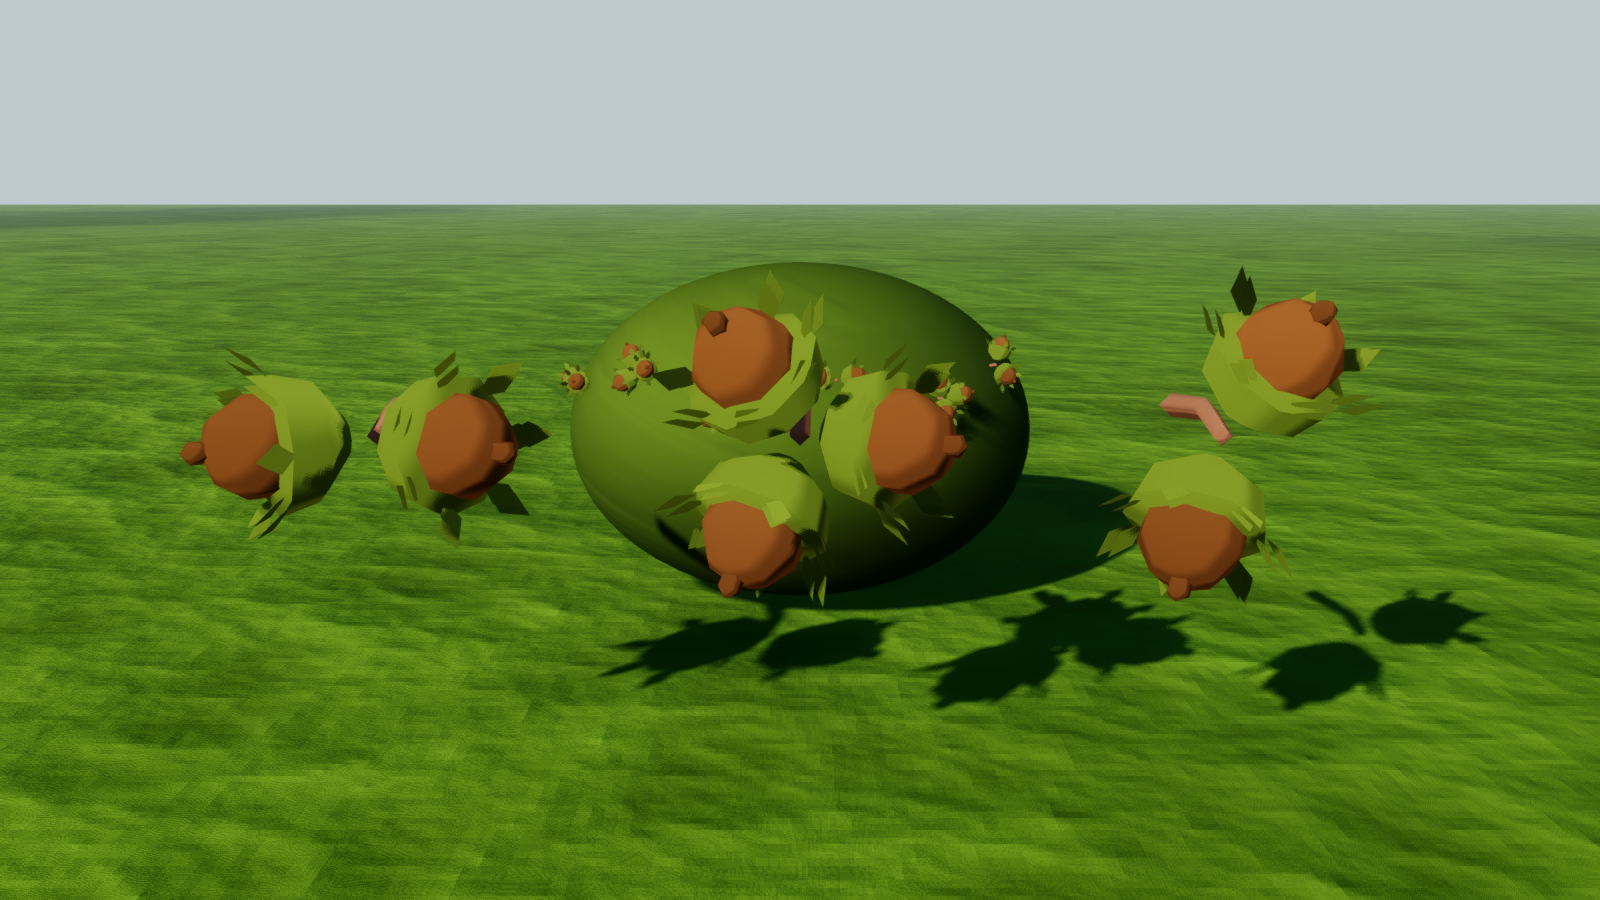
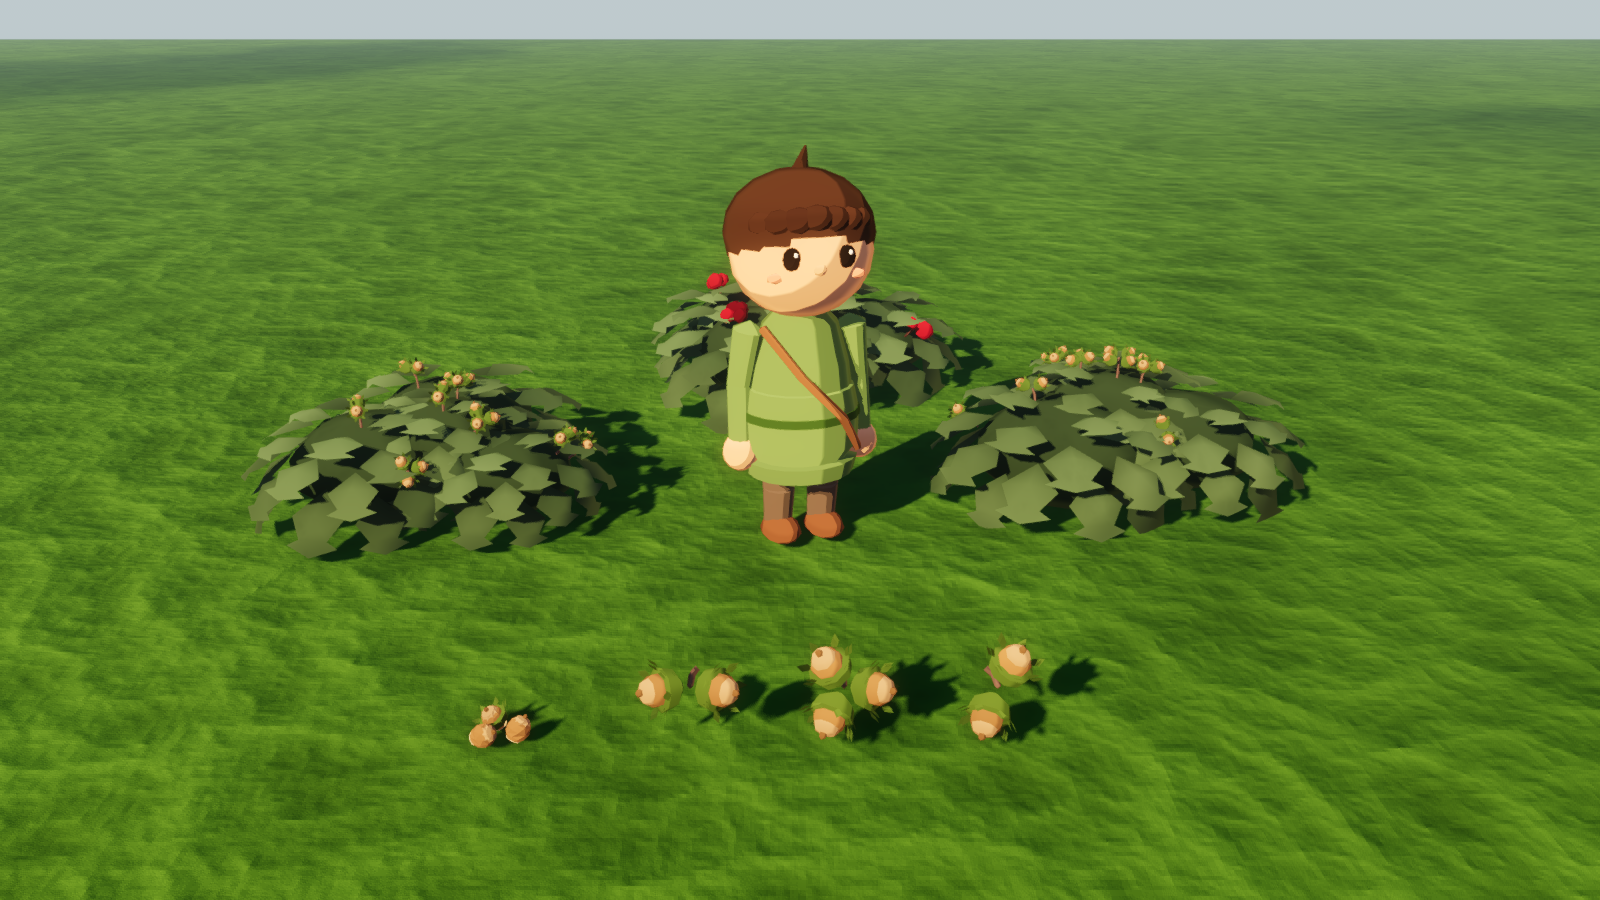
model-21: hazelnut item and bush clusters on real hazel bushes (PM review)
Claude-Session: https://claude.ai/code/session_01JKX3FNjkrEkAqoTaFJiXAm

diff --git a/client/scripts/survival/BerryBush.cs b/client/scripts/survival/BerryBush.cs
@@ -8,11 +8,9 @@ namespace LifeGame;
 public partial class BerryBush : Node3D
 {
     public static readonly Color BerryColor = new(0.55f, 0.08f, 0.16f);
-    // A hazel bush (survival-30) carries pale brown nuts instead; Modeling's cluster replaces these spheres.
-    public static readonly Color NutColor = new(0.68f, 0.48f, 0.24f);
     static readonly Color BushLeaf = new(0.20f, 0.33f, 0.14f);
 
-    static Mesh? lobeMesh, berryMesh, berryDarkMesh, nutMesh, nutDarkMesh, stemMesh;
+    static Mesh? lobeMesh, berryMesh, berryDarkMesh, stemMesh;
     readonly Node3D berries = new();
 
     // A lobe is a squashed sphere: center and radii in the bush's own space.
@@ -31,11 +29,8 @@ public partial class BerryBush : Node3D
         lobeMesh ??= PaintedBushes.Clump(PaintedBushes.Tint(BushLeaf));
         berryMesh ??= PaintedMesh(Look.Faceted(new SphereMesh { Radius = 0.04f, Height = 0.08f, RadialSegments = 6, Rings = 3 }, BerryColor));
         berryDarkMesh ??= PaintedMesh(Look.Faceted(new SphereMesh { Radius = 0.04f, Height = 0.08f, RadialSegments = 6, Rings = 3 }, BerryColor.Darkened(0.35f)));
-        nutMesh ??= PaintedMesh(Look.Faceted(new SphereMesh { Radius = 0.05f, Height = 0.1f, RadialSegments = 6, Rings = 3 }, NutColor));
-        nutDarkMesh ??= PaintedMesh(Look.Faceted(new SphereMesh { Radius = 0.05f, Height = 0.1f, RadialSegments = 6, Rings = 3 }, NutColor.Darkened(0.3f)));
+        // A hazel bush (survival-30) carries hazelnuts in their husks instead of berries.
         bool hazel = Needs.IsHazelBush(id);
-        var fruit = hazel ? nutMesh : berryMesh;
-        var fruitDark = hazel ? nutDarkMesh : berryDarkMesh;
         stemMesh ??= PaintedMesh(Look.Faceted(new CylinderMesh { TopRadius = 0.006f, BottomRadius = 0.009f, Height = 0.12f, RadialSegments = 4 }, Look.Bark));
 
         int seed = (int)(id % 100_000);
@@ -56,14 +51,26 @@ public partial class BerryBush : Node3D
 
         // Berries hang in small clusters on short stems, tucked into the leaves of
         // the outer, upper surface so they read as part of the bush.
-        for (int c = 0; c < 7; c++)
+        for (int c = 0; c < (hazel ? 8 : 7); c++)
         {
             if (FindSurfaceSpot(lobes, seed, c) is not var (spot, normal)) continue;
             var cluster = new Node3D { Position = spot };
             cluster.Basis = Basis.LookingAt(normal, Mathf.Abs(normal.Y) > 0.95f ? Vector3.Forward : Vector3.Up);
+            if (hazel)
+            {
+                // Modeling's hazelnuts in their husks (model-21), stem and all, turned a little per cluster.
+                cluster.AddChild(new MeshInstance3D
+                {
+                    Mesh = PropMeshes.HazelCluster(seed + c),
+                    MaterialOverride = PropMeshes.HazelMaterial,
+                    Rotation = new Vector3(0, 0, Terrain.Hash01(seed, c, 48) * Mathf.Tau),
+                });
+                berries.AddChild(cluster);
+                continue;
+            }
             // The stem runs back into the foliage.
             cluster.AddChild(new MeshInstance3D { Mesh = stemMesh, Position = new Vector3(0, 0, 0.03f), Rotation = new Vector3(Mathf.Pi / 2f, 0, 0) });
-            int count = hazel ? 2 + (int)(Terrain.Hash01(seed, c, 44) * 2f) : 2 + (int)(Terrain.Hash01(seed, c, 44) * 3f);
+            int count = 2 + (int)(Terrain.Hash01(seed, c, 44) * 3f);
             for (int b = 0; b < count; b++)
             {
                 float a = b * Mathf.Tau / count + Terrain.Hash01(seed, c * 7 + b, 45);
@@ -71,7 +78,7 @@ public partial class BerryBush : Node3D
                 float scale = 0.8f + Terrain.Hash01(seed, c * 7 + b, 46) * 0.45f;
                 cluster.AddChild(new MeshInstance3D
                 {
-                    Mesh = Terrain.Hash01(seed, c * 7 + b, 47) < 0.3f ? fruitDark : fruit,
+                    Mesh = Terrain.Hash01(seed, c * 7 + b, 47) < 0.3f ? berryDarkMesh : berryMesh,
                     // Local -Z points out of the bush; berries sit just proud of the leaves.
                     Position = new Vector3(Mathf.Cos(a) * r, Mathf.Sin(a) * r - 0.01f, -0.015f),
                     Scale = Vector3.One * scale,

diff --git a/client/scripts/models/PropMeshes.cs b/client/scripts/models/PropMeshes.cs
@@ -158,9 +158,10 @@ public static class PropMeshes
     }
 
     // Hazelnuts on the bush (model-21, for Survival's autumn hazels, D-323): two or three
-    // nuts in their frilled green-gold husks on a short stem, in the berry clusters' frame
+    // tan nuts in their frilled green husks on a short stem, in the berry clusters' frame
     // (BerryBush): local -Z points out of the bush, the stem runs back into it along +Z.
-    // Colours are in the vertices; draw it with HazelMaterial.
+    // Built 1.5x life size (about 12 cm across) so it reads from 5 to 10 m, like the
+    // berries. Colours are in the vertices; draw it with HazelMaterial.
     public static Mesh HazelCluster(int variant) => Variant("hazelcluster", variant, HazelClusterVariants, BuildHazelCluster);
     public const int HazelClusterVariants = 3;
     public static Material HazelMaterial => hazelMaterial ??= Painted.Of(Look.Solid(Colors.White));
@@ -169,7 +170,8 @@ public static class PropMeshes
     static ArrayMesh BuildHazelCluster(int v)
     {
         var k = new MeshKit(false) { Skinned = false };
-        var shell = new Color(0.36f, 0.26f, 0.16f);
+        const float life = 1.5f;
+        var shell = new Color(0.56f, 0.42f, 0.27f);
         var husk = new Color(0.3f, 0.4f, 0.15f);
         k.Paint(Look.Bark.Lightened(0.15f)).Tube(new[] { new Vector3(0, 0, 0.05f), new Vector3(0, 0.005f, 0.01f), new Vector3(0, 0, -0.01f) }, 0.004f, 4, 0.003f);
         int count = 2 + v % 2;
@@ -181,7 +183,8 @@ public static class PropMeshes
             var tilt = MeshKit.Aim(dir) * new Basis(Vector3.Right, Mathf.Pi / 2f);
             var up = tilt * Vector3.Up;
             k.Paint(shell, 0.9f + H(v * 3 + i, 40) * 0.15f).Ellipsoid(at + up * 0.006f, new Vector3(0.016f, 0.018f, 0.016f), 8, 5, tilt);
-            k.Paint(shell.Darkened(0.15f)).Ellipsoid(at + up * 0.024f, new Vector3(0.004f, 0.005f, 0.004f), 5, 3, tilt);
+            k.Paint(shell.Lightened(0.18f)).Ellipsoid(at + up * 0.014f, new Vector3(0.0135f, 0.01f, 0.0135f), 8, 4, tilt);
+            k.Paint(shell.Darkened(0.2f)).Ellipsoid(at + up * 0.024f, new Vector3(0.004f, 0.005f, 0.004f), 5, 3, tilt);
             // The husk: a leafy cup round the lower half, a frill of short teeth at its lip.
             k.Paint(husk).Loft(at - up * 0.017f, at + up * 0.004f, new MeshKit.Ring[]
             {
@@ -195,7 +198,13 @@ public static class PropMeshes
                 k.Paint(husk, 0.9f + H(v * 7 + j, 43) * 0.2f).Blade(lip, lip + up * (0.008f + H(j, 41) * 0.005f) + side * 0.006f, side, 0.008f, 0.002f);
             }
         }
-        return Done(k);
+        var arrays = k.CommitToArrays();
+        var verts = arrays[(int)Mesh.ArrayType.Vertex].AsVector3Array();
+        for (int n = 0; n < verts.Length; n++) verts[n] *= life;
+        arrays[(int)Mesh.ArrayType.Vertex] = verts;
+        var mesh = new ArrayMesh();
+        mesh.AddSurfaceFromArrays(Mesh.PrimitiveType.Triangles, arrays);
+        return mesh;
     }
 
     // A fallen giant (model-19, for Environment's env-33 landmark, drawn 3 to 4 times

diff --git a/client/scripts/models/Showcase.Modeling.cs b/client/scripts/models/Showcase.Modeling.cs
@@ -86,24 +86,25 @@ public partial class Showcase
         AddChild(new Camera3D { Current = true });
     }
 
-    // Hazelnuts (model-21): the bush clusters' three variants four times life size,
-    // then at life size on a leafy lobe the way BerryBush hangs its berries.
+    // Hazelnuts (model-21): two real hazel bushes (BerryBush, as the world draws them) and
+    // a berry bush for comparison, with a person for scale; in front, close-ups of the
+    // hazelnut item and the bush clusters' three variants, each twice life size.
     [ShowcaseView("hazel")]
     void Hazel()
     {
+        var bushes = new (ulong Id, Vector3 At)[] { (3, new Vector3(-1.3f, 0, -0.8f)), (9, new Vector3(1.4f, 0, -1.1f)), (4, new Vector3(0.1f, 0, -2.4f)) };
+        foreach (var (id, at) in bushes)
+            AddChild(new BerryBush(id) { Position = at, Rotation = new Vector3(0, id * 0.7f, 0) });
+        var person = PlayerModel.Build();
+        person.Position = new Vector3(0.1f, 0, -0.5f);
+        person.Rotation = new Vector3(0, 0.3f, 0);
+        AddChild(person);
+        // The close-up row: the item on the ground, then the clusters as they hang.
+        AddChild(new MeshInstance3D { Mesh = ItemLook.MeshFor(LifeGame.Shared.Item.Hazelnuts), Scale = Vector3.One * 2f, Position = new Vector3(-0.75f, 0.01f, 0.85f), Rotation = new Vector3(0, 0.5f, 0) });
         for (int v = 0; v < PropMeshes.HazelClusterVariants; v++)
-            AddChild(new MeshInstance3D { Mesh = PropMeshes.HazelCluster(v), MaterialOverride = PropMeshes.HazelMaterial, Scale = Vector3.One * 4f, Position = new Vector3(-0.5f + v * 0.5f, 0.45f, 0.3f), Rotation = new Vector3(0, Mathf.Pi, 0) });
-        var lobe = new MeshInstance3D { Mesh = new SphereMesh { Radius = 0.42f, Height = 0.6f }, MaterialOverride = Look.Solid(Look.Leaf), Position = new Vector3(0, 0.3f, -0.6f) };
-        AddChild(lobe);
-        for (int c = 0; c < 6; c++)
-        {
-            float a = -1.2f + c * 0.45f;
-            var normal = new Vector3(Mathf.Sin(a), 0.35f + 0.15f * (c % 2), Mathf.Cos(a)).Normalized();
-            var spot = lobe.Position + normal * new Vector3(0.42f, 0.3f, 0.42f);
-            AddChild(new MeshInstance3D { Mesh = PropMeshes.HazelCluster(c), MaterialOverride = PropMeshes.HazelMaterial, Position = spot, Basis = Basis.LookingAt(normal, Vector3.Up) });
-        }
-        var camera = new Camera3D { Fov = 35f, Current = true };
+            AddChild(new MeshInstance3D { Mesh = PropMeshes.HazelCluster(v), MaterialOverride = PropMeshes.HazelMaterial, Scale = Vector3.One * 2f, Position = new Vector3(-0.2f + v * 0.42f, 0.18f, 0.85f), Rotation = new Vector3(0.3f, Mathf.Pi, 0) });
+        var camera = new Camera3D { Fov = 40f, Current = true };
         AddChild(camera);
-        camera.LookAtFromPosition(new Vector3(0, 0.75f, 2.0f), new Vector3(0, 0.35f, -0.1f), Vector3.Up);
+        camera.LookAtFromPosition(new Vector3(0.1f, 2.0f, 3.8f), new Vector3(0.1f, 0.35f, -0.5f), Vector3.Up);
     }
 }

diff --git a/client/scripts/models/ItemModels.cs b/client/scripts/models/ItemModels.cs
@@ -211,7 +211,7 @@ public static class ItemModels
         Item.BowDrill => (BowDrill, false),
         Item.Berries => (Berries, true),
         // Stand-in until Modeling makes a hazelnut (survival-30).
-        Item.Hazelnuts => (Berries, true),
+        Item.Hazelnuts => (Hazelnuts, true),
         Item.RawMutton => (k => Mutton(k, new Color(0.74f, 0.30f, 0.30f), new Color(0.93f, 0.87f, 0.77f), Bone, 1f), true),
         Item.CookedMutton => (k => Mutton(k, new Color(0.50f, 0.27f, 0.12f), new Color(0.74f, 0.54f, 0.28f), new Color(0.86f, 0.78f, 0.64f), 0.95f), true),
         Item.BurntMutton => (k => Mutton(k, new Color(0.10f, 0.08f, 0.07f), new Color(0.17f, 0.13f, 0.10f), new Color(0.32f, 0.28f, 0.23f), 0.88f), true),
@@ -507,11 +507,11 @@ public static class ItemModels
     }
 
     // A small handful of hazelnuts (model-21, for Survival's autumn wild food, D-323):
-    // round, glossy brown shells with a pale, flat base and a little point, one still
-    // in its frilled green-gold husk.
+    // round tan shells, paler toward the top, with a pale, flat base and a little point,
+    // one still in its frilled green husk.
     static void Hazelnuts(Kit k)
     {
-        var shell = new Color(0.36f, 0.26f, 0.16f);
+        var shell = new Color(0.56f, 0.42f, 0.27f);
         var spots = new[] { new Vector3(-0.025f, 0, 0.01f), new Vector3(0.022f, 0, 0.018f), new Vector3(0.0f, 0, -0.025f) };
         for (int i = 0; i < spots.Length; i++)
         {
@@ -528,7 +528,8 @@ public static class ItemModels
         var up = tilt * Vector3.Up;
         k.Plain.Paint(shell).Ellipsoid(at, new Vector3(0.017f, 0.019f, 0.017f) * size, 9, 6, tilt);
         k.Plain.Paint(new Color(0.85f, 0.76f, 0.6f)).Ellipsoid(at - up * 0.016f * size, new Vector3(0.011f, 0.004f, 0.011f) * size, 7, 2, tilt);
-        k.Plain.Paint(shell.Darkened(0.15f)).Ellipsoid(at + up * 0.019f * size, new Vector3(0.004f, 0.005f, 0.004f) * size, 5, 3, tilt);
+        k.Plain.Paint(shell.Lightened(0.18f)).Ellipsoid(at + up * 0.009f * size, new Vector3(0.0145f, 0.01f, 0.0145f) * size, 9, 4, tilt);
+        k.Plain.Paint(shell.Darkened(0.2f)).Ellipsoid(at + up * 0.019f * size, new Vector3(0.004f, 0.005f, 0.004f) * size, 5, 3, tilt);
         if (!husked) return;
         // A leafy cup round the lower half, a frill of short teeth at its lip.
         var husk = new Color(0.3f, 0.4f, 0.15f);

diff --git a/client/scripts/models/PaintedItems.cs b/client/scripts/models/PaintedItems.cs
@@ -87,7 +87,7 @@ public static class PaintedItems
             or Item.RawChicken or Item.CookedChicken or Item.BurntChicken => Family.Food,
         // By number until the items reach main: clothing (D-074), the deer (animals-14) and wool (animals-8).
         (Item)Garments.WoolTunic or (Item)Garments.FootWraps or (Item)203 or (Item)198 or (Item)199 => Family.Hide,
-        (Item)202 or (Item)214 or (Item)215 or (Item)216 or Item.CookedVenison or Item.BurntVenison or Item.Tallow => Family.Food,
+        (Item)202 or (Item)214 or (Item)215 or (Item)216 or Item.CookedVenison or Item.BurntVenison or Item.Tallow or Item.Hazelnuts => Family.Food,
         (Item)217 => Family.Hide,
         (Item)197 or (Item)204 or (Item)16 or (Item)17 or (Item)18 => Family.Wood,
         _ => ClayItemLook.MeshFor(item) != null ? Family.Clay : Family.Plain,

diff --git a/tickets/model-21.md b/tickets/model-21.md
@@ -1,22 +1,24 @@
 # model-21: Hazelnuts
 Lane: Modeling
 Owner: Modeling lane session
-Status: in_progress
+Status: in_review
 Branch: claude/model-21-hazelnut
 PR: (not yet)
 
 ## Goal
 For Survival's autumn hazelnuts (D-323: about one bush in three, autumn, 3 per bush).
 - `PropMeshes.HazelCluster(variant)`, 3 variants, drawn with `PropMeshes.HazelMaterial`: two or three hazelnuts in leafy green husk cups on a short stem. It uses BerryBush's cluster frame (local -Z out of the bush) so Survival can hang them like berries.
-- An item model `ItemModels.Hazelnuts`: three nuts, one still husked. It's built but not yet mapped, because the Item id isn't on main yet.
+- An item model `ItemModels.Hazelnuts` for `Item.Hazelnuts` (163, Survival's #741): three nuts, one still husked.
+- `BerryBush` (Survival's file, with their go-ahead): a hazel bush hangs 8 HazelClusters instead of berries, replacing #741's sphere stand-ins.
 - Showcase view `hazel`.
 Render: `renders/model-21-hazel.png`.
 
 ## Progress log
 - 2026-10-17: built the cluster and the item function and iterated the husks over six renders; build has 0 errors.
+- 2026-10-17 11:50: PM review. Clusters are now 1.5x life (about 12 cm, readable at 5 to 10 m), the nuts are paler tan with lighter caps, and 8 clusters hang per hazel bush. Merged #741, mapped Item.Hazelnuts, and wired BerryBush. The render shows real hazel bushes and a berry bush with a person, plus a close-up row.
 
 ## Open questions / blockers
-- Need the hazelnut Item id and its branch from Survival or the PM (asked).
+- Built on Survival's claude/survival-wild-food (#741), so it merges after #741. The PR targets that branch until #741 lands.
 
 ## Next step
-Map the item id in ItemModels' table and PaintedItems.FamilyOf (Food), add it to the Showcase pending list, render the icon, and open the PR.
+Wait for CI on the PR; once #741 merges, retarget the PR to main and send the green sha to the PM.
